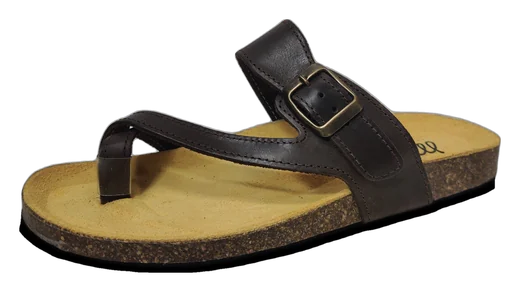
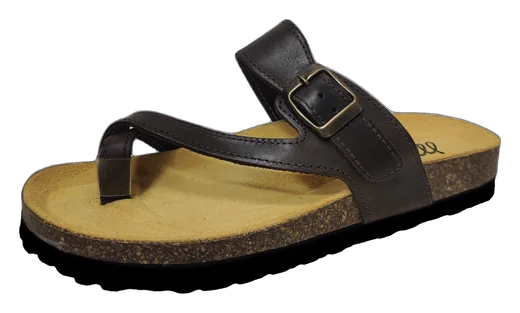
Solas pretas completas em 1128, 2072, 2703 e 3521
A sola é recuperada a crescer a partir do sapato pelos píxeis muito escuros ligados a ele
(a sombra, mais clara, trava o crescimento). O 2072 também tem sola de borracha preta e passa a usar este tratamento.

Claude-Session: https://claude.ai/code/session_01B3DnFGtgrKXUtky3rp3Gy7

Changed region(s): [[0.0308, 0.0616, 0.9846, 0.9555], [0.4308, 0.1233, 0.4923, 0.2158], [0.4923, 0.0925, 0.5231, 0.1233]]

diff --git a/ferramentas/converter_fotos.py b/ferramentas/converter_fotos.py
@@ -37,6 +37,7 @@ EXTENSOES = {".jpg", ".jpeg", ".png", ".webp", ".heic"}
 MODELO = "isnet-general-use"
 MODELO_POR_REF = {
     "1128": "u2net",
+    "2072": "u2net",
     "2703": "u2net",
     "3521": "u2net",
     "3521C": "u2net",
@@ -51,15 +52,21 @@ def nome_destino(ficheiro: Path):
     return m.group(1), m.group(2).lower()
 
 
-def recuperar_sola(original: Image.Image, cortada: Image.Image) -> Image.Image:
-    """Volta a juntar a sola escura que o recorte cortou.
+def recuperar_sola(original: Image.Image, cortada: Image.Image, escuro_max=70, passos=60) -> Image.Image:
+    """Volta a juntar a sola preta que o recorte cortou.
 
-    Os píxeis muito escuros da foto original, colados ao sapato, são sola (a sombra do chão é mais clara);
-    depois as arestas ficam nítidas: o "quase sapato" fica opaco e o "quase fundo" (nevoeiro) desaparece."""
+    A partir do sapato recortado, "cresce" pelos píxeis muito escuros da foto original que lhe estão ligados
+    (a sola de borracha); a sombra do chão é mais clara e trava o crescimento, por isso não entra.
+    No fim as arestas ficam nítidas: o "quase sapato" fica opaco e o "quase fundo" (nevoeiro) desaparece."""
     a = cortada.getchannel("A")
-    perto = a.point(lambda v: 255 if v > 128 else 0).filter(ImageFilter.MaxFilter(41))
-    escuro = original.convert("L").point(lambda v: 255 if v < 75 else 0)
-    m = ImageChops.lighter(a, ImageChops.multiply(escuro, perto)).filter(ImageFilter.MedianFilter(5))
+    escuro = original.convert("L").point(lambda v: 255 if v < escuro_max else 0)
+    m = a.point(lambda v: 255 if v > 128 else 0)
+    for _ in range(passos):
+        novo = ImageChops.lighter(m, ImageChops.multiply(m.filter(ImageFilter.MaxFilter(5)), escuro))
+        if ImageChops.difference(novo, m).getbbox() is None:
+            break
+        m = novo
+    m = ImageChops.lighter(a, m).filter(ImageFilter.MedianFilter(5))
     m = m.point(lambda v: 0 if v <= 70 else 255 if v >= 190 else int((v - 70) * 255 / 120))
     cortada.putalpha(m.filter(ImageFilter.GaussianBlur(0.8)))
     return cortada

diff --git a/README.md b/README.md
@@ -54,9 +54,10 @@ python3 ferramentas/converter_fotos.py
 - Demora cerca de 5 segundos por foto. Da primeira vez descarrega o modelo de recorte (~180 MB), por isso demora mais.
 - No fim aparece `Convertidas: X`. Cada foto dá origem a dois ficheiros na pasta `png/<referência>/`:
   a foto grande (`.png`) e uma miniatura leve (`mini/....webp`) usada na página inicial.
-- Se uma foto ficar com "nevoeiro" (a sombra do chão) por baixo da sola, acrescente a referência a
-  `MODELO_POR_REF` no início de `ferramentas/converter_fotos.py` (usa o modelo `u2net`, melhor para solas de cortiça)
-  e volte a converter essa referência: `python3 ferramentas/converter_fotos.py --ref 1128`
+- Modelos com **sola de borracha preta** (ex.: 1128, 2072, 2703, 3521): o recorte confunde a sola com a sombra
+  e corta-a ou deixa "nevoeiro". Para um modelo novo com esse tipo de sola, acrescente a referência a
+  `MODELO_POR_REF` no início de `ferramentas/converter_fotos.py` e volte a converter essa referência:
+  `python3 ferramentas/converter_fotos.py --ref 1128` (usa outro modelo de recorte e recupera a sola preta pela cor).
 - Se uma foto ficar mal recortada, pode voltar a convertê-la sozinha:
 
   ```bash
